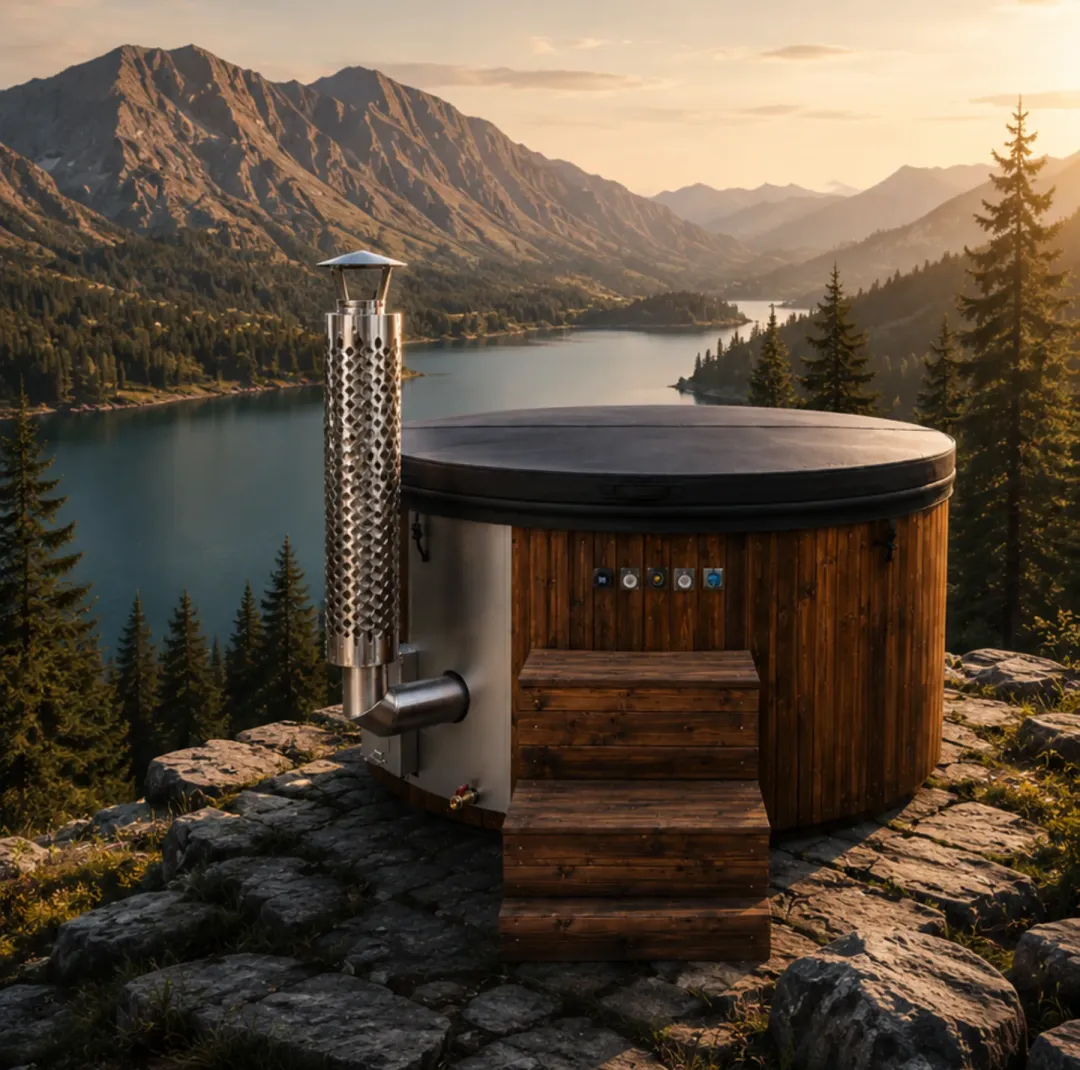
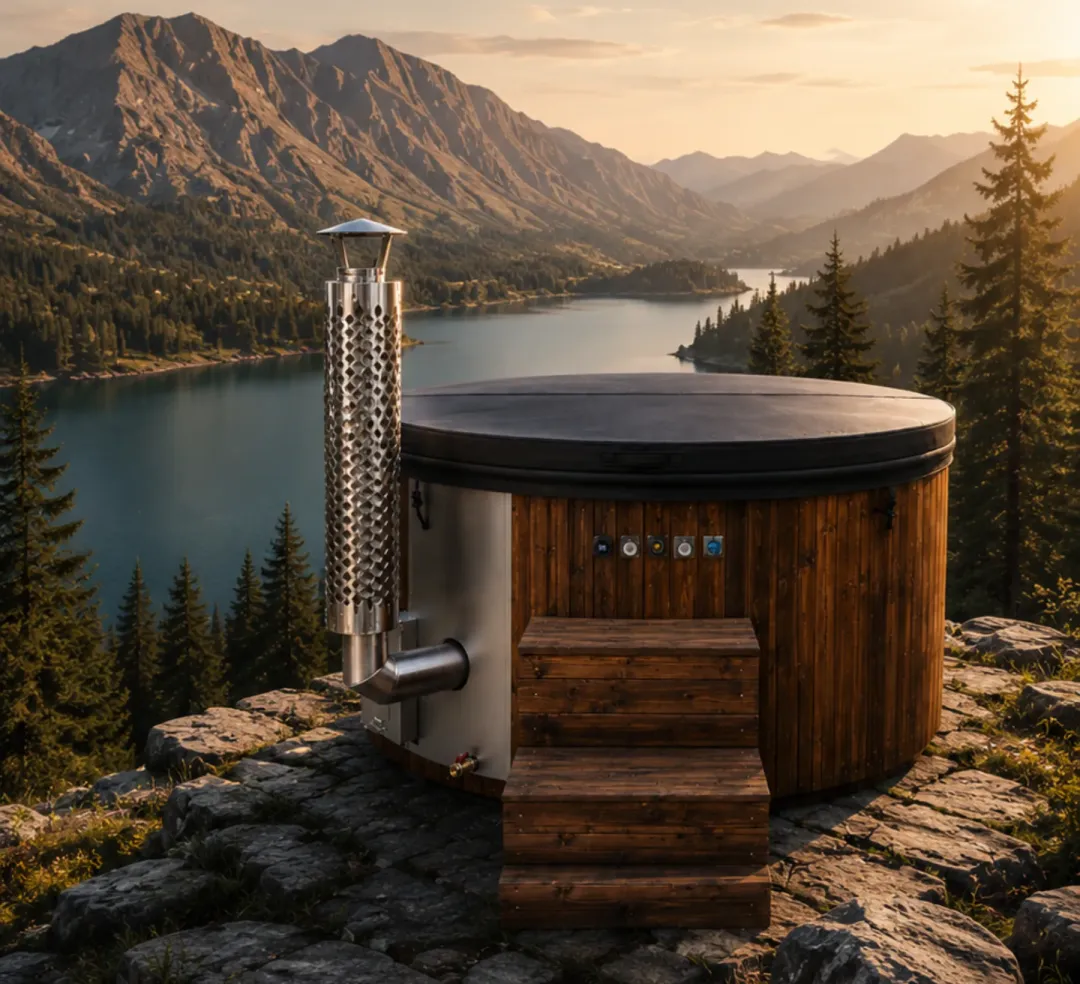
Hero mobil: cadraj fin (-3% sus, -5% jos) pentru un ciubăr mai bine proporționat

diff --git a/src/components/Hero.tsx b/src/components/Hero.tsx
@@ -50,10 +50,10 @@ export default function Hero() {
             sizes="100vw"
             alt="Ciubăr premium PMPFiber pe malul unui lac de munte, la apus"
             width={1800}
-            height={1782}
+            height={1640}
             fetchPriority="high"
             decoding="async"
-            className="aspect-[100/99] w-full object-cover [filter:brightness(1.2)_saturate(1.06)]"
+            className="aspect-[45/41] w-full object-cover [filter:brightness(1.2)_saturate(1.06)]"
           />
           {/* Scrim sus pentru navbar */}
           <div className="pointer-events-none absolute inset-x-0 top-0 h-28 bg-gradient-to-b from-ink-950/75 to-transparent" />